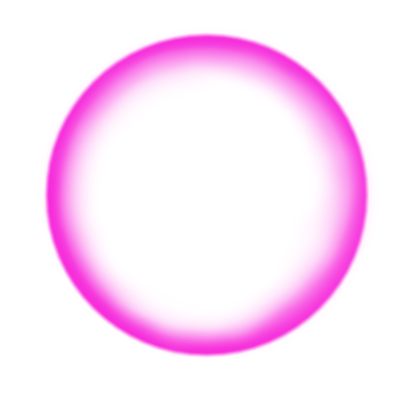
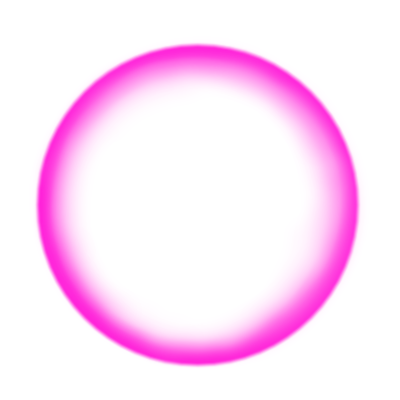
add images and define panel close action

diff --git a/src/main/java/com/game/shooting_game/utils/UIBuilder.java b/src/main/java/com/game/shooting_game/utils/UIBuilder.java
@@ -292,14 +292,20 @@ public class UIBuilder extends JPanel {
         g.drawString(text, x, y);
     }
 
+    @FunctionalInterface
+    public interface CloseButtonAction {
+        void onClick();
+    }
+
     /**
      * パネル (タイトル表示のために上部分に25px相当のパネルが張り付けられます)
      * 
-     * @param p     パネル
-     * @param title タイトル
-     * @param focus フォーカスの有無
+     * @param p           パネル
+     * @param title       タイトル
+     * @param focus       フォーカスの有無
+     * @param closeAction クローズボタンのアクション
      */
-    public static void openPanel(JPanel p, String title, Boolean focus) {
+    public static void openPanel(JPanel p, String title, Boolean focus, CloseButtonAction closeAction) {
         p.setLayout(null);
         p.setBackground(new Color(0, 0, 0, 220));
         p.setBorder(BorderFactory.createLineBorder(Color.CYAN, 2));
@@ -383,7 +389,11 @@ public class UIBuilder extends JPanel {
             closePanelButton = UIBuilder.createImageButton("[UIBuilder]", closePanelButtonImagePath,
                     closePanelButtonSize, "X");
             closePanelButton.addActionListener(e -> {
-                UIBuilder.closePanel(p);
+                // クローズアクションが指定されていればそれを実行、指定されていなければパネルを閉じる
+                if (closeAction != null)
+                    closeAction.onClick();
+                else
+                    UIBuilder.closePanel(p);
             });
 
             closePanelButton.setName("closeBtn");

diff --git a/src/main/java/com/game/shooting_game/stageScene/normal/subPanels/StageDetailPanel.java b/src/main/java/com/game/shooting_game/stageScene/normal/subPanels/StageDetailPanel.java
@@ -156,7 +156,7 @@ public class StageDetailPanel extends JPanel {
         detailTextArea.setText(detailText);
         detailTextArea.setCaretPosition(0); // テキストエリアのスクロール位置を先頭にする
 
-        UIBuilder.openPanel(this, "Stage" + stageId, true);
+        UIBuilder.openPanel(this, "Stage" + stageId, true, null);
     }
 
     /**

diff --git a/src/main/java/com/game/shooting_game/gameScene/subPanels/PausePanel.java b/src/main/java/com/game/shooting_game/gameScene/subPanels/PausePanel.java
@@ -105,6 +105,9 @@ public class PausePanel extends JPanel {
                 component,
                 ANSI.YELLOW + "Game Paused" + ANSI.RESET);
 
-        UIBuilder.openPanel(this, "Pause", true);
+        UIBuilder.openPanel(this, "Pause", true, () -> {
+            GM.setPause(false);
+            UIBuilder.closePanel(this);
+        });
     }
 }

diff --git a/src/main/java/com/game/shooting_game/upgradeScene/subPanels/SkillDetailPanel.java b/src/main/java/com/game/shooting_game/upgradeScene/subPanels/SkillDetailPanel.java
@@ -111,6 +111,6 @@ public class SkillDetailPanel extends JPanel {
         detailTextArea.setText(detailText);
         detailTextArea.setCaretPosition(0); // テキストエリアのスクロール位置を先頭にする
 
-        UIBuilder.openPanel(this, title, true);
+        UIBuilder.openPanel(this, title, true, null);
     }
 }

diff --git a/src/main/java/com/game/shooting_game/data/LoginPanel.java b/src/main/java/com/game/shooting_game/data/LoginPanel.java
@@ -162,6 +162,6 @@ public class LoginPanel extends JPanel {
                 MAIN.getHeight() / 2 - (int) panelSize.getY() / 2,
                 (int) panelSize.getX(), (int) panelSize.getY());
 
-        UIBuilder.openPanel(this, state, true);
+        UIBuilder.openPanel(this, state, true, null);
     }
 }

diff --git a/todo_list.md b/todo_list.md
@@ -10,7 +10,6 @@ logLabels
 [bug]
 bagパネルがスクロールできない
 ログインパネル表示中にコマンドが使用できる
-pauseパネルの✕ボタンを押すと止まる
 テキストログフィールドがキー入力を没収する
 bagSceneのreloadが動かない
 ゲーム入場時にプレイヤーが弾を一発だけ発射している
